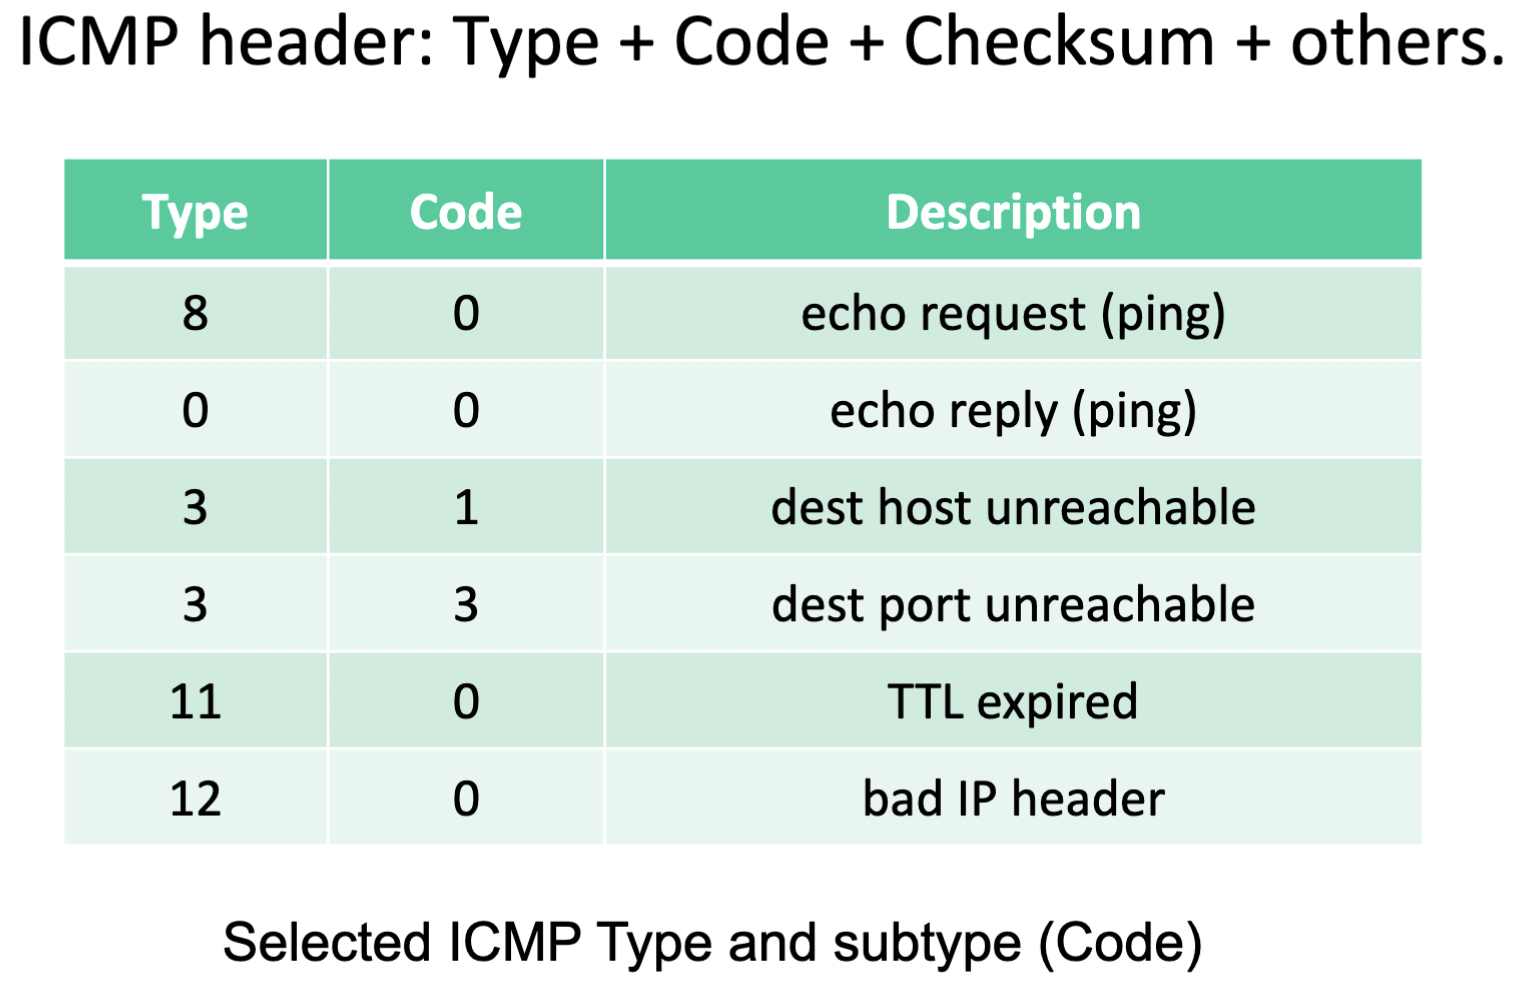
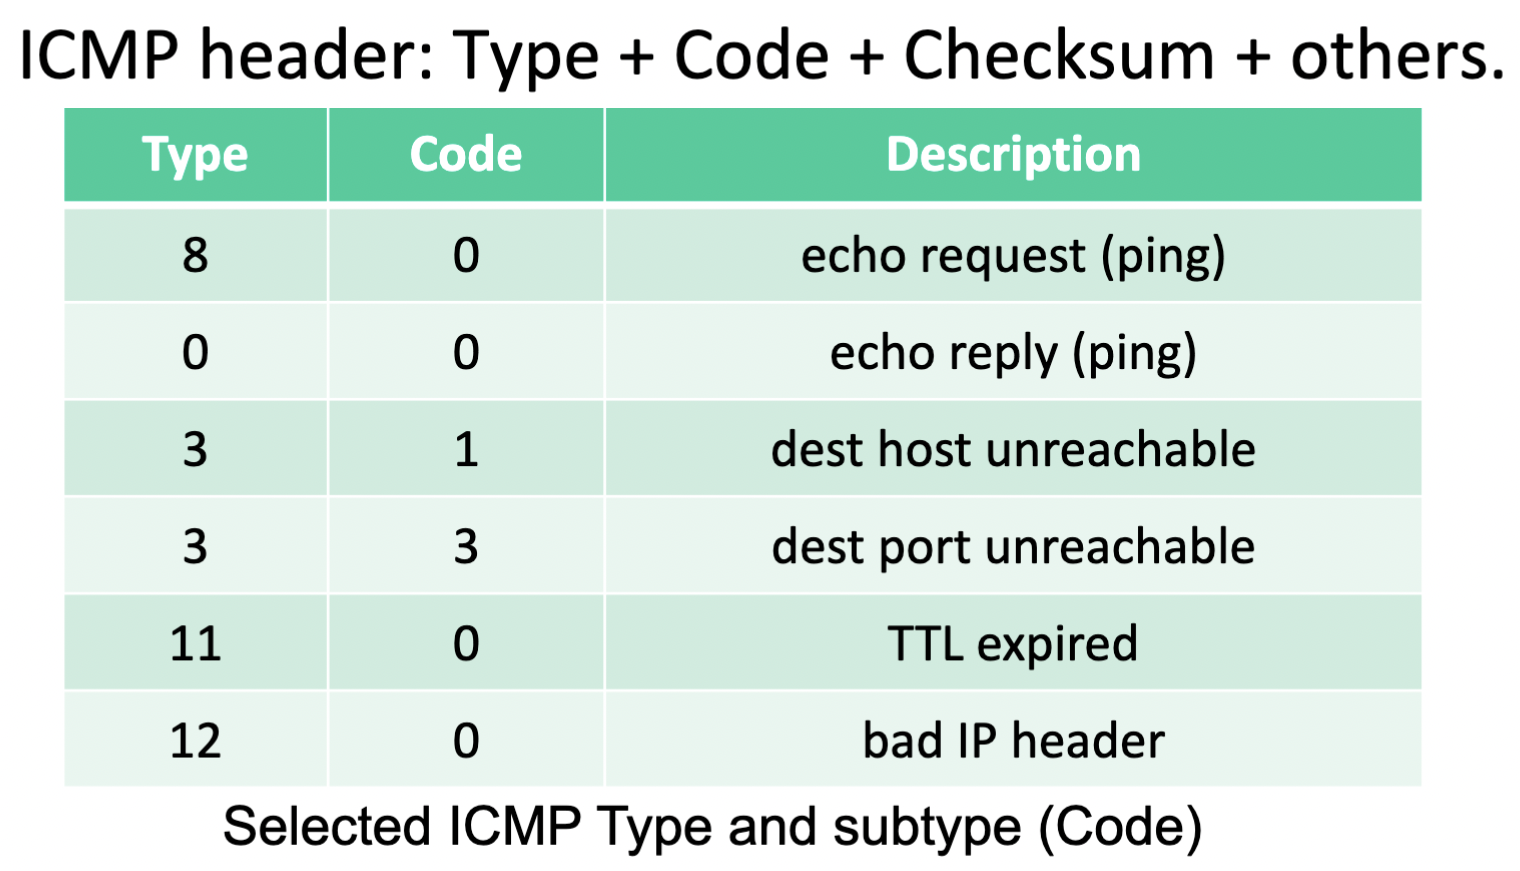
tighten phrasing and add detail

diff --git a/main.tex b/main.tex
@@ -804,13 +804,14 @@ in local network. Hosts inside local network are not explicitly addressable and 
 Used by hosts \& routers to share network-level
 info. E.g. error reporting: unreachable host / network / port / protocol and echo request/reply (used by \texttt{ping})
 
+\vspace{0.5em}
 \begin{compactfigure}
 \includegraphics[width=0.75\linewidth]{network/icmp-type.png}
 \end{compactfigure}
 
 \section*{Layer 4 - Link Layer}
 \sectionrule
-Transfers IP datagrams between adjacent nodes (hosts or routers) over one link, encapsulated in link-layer frames.
+Transfer IP datagrams b/w adjacent nodes (hosts or routers) over one link, encapsulated in link-layer frames.
 
 \textbf{Communication channel: } transmission medium of the data signals. E.g. copper wire, optical fiber, satellite. \\
 \textbf{Nodes: } Devices exchanging data. e.g. hosts, routers
@@ -818,12 +819,12 @@ Transfers IP datagrams between adjacent nodes (hosts or routers) over one link, 
 \textbf{Frame: } Layer-2 packet
 \textbf{NIC (Network Interface Card)} takes datagram and encapsulates it into a frame. Fills the header frame and transfers into physical link.
 
-Link Layer Services.
+\subsection{Link Layer Services}
 \begin{enumerate}
-\item \textbf{Framing: } encapsulate data into a frame, add header and trailer
-\item \textbf{Link Access Control: } When multiple nodes share a single link, coordinate which nodes can send frames at each point of time
+\item \textbf{Framing:} wrap data in a frame, add header \& trailer
+\item \textbf{Link Access Control:} When multiple nodes share a link, coordinate who can send frames at any time
 \item \textbf{Error detection and correction}
-\item \textbf{Reliable delivery: } often used on error-prone delivery like wireless link.
+\item \textbf{Reliable delivery:} for error-prone delivery mediums e.g. wireless link
 \end{enumerate}
 
 \subsection{Multiple Access Links and Protocols}
@@ -855,9 +856,9 @@ Protocols dictate how to detect and recover from collisions. Efficient with ligh
 \textbf{Slotted ALOHA}
 When node has data to send transmit at full channel data rate $R$, and no a priori coordination among nodes. Data sent in frames of size $L$ bits.
 \begin{itemize}
-\item Time divided into synchronized slots of duration \(L/R\).
+\item Time divided into sync-ed slots of duration \(L/R\).
 \item Nodes transmit at the start of the next slot when they have a frame.
-\item After a collision, retransmit in each subsequent slot with probability \(p\).
+\textbf{After a collision}, retransmit in each subsequent slot with probability \(p\).
 \end{itemize}
 \textit{Maximum efficiency: } $\tfrac{1}{e}$
 \begin{compactfigure}
@@ -878,16 +879,16 @@ No time slots, no synchronisation. When fresh frame:
 \includegraphics[width=0.75\linewidth]{link/unslotted-aloha.png}
 \end{compactfigure}
 
-\textbf{Limitations of both ALOHAs: } node’s decision to transmit is independent of the activity of other nodes in broadcast channel, and node pays no attention to whether another node is transmitting
+\textbf{Limitations of both ALOHAs: } nodes transmit w/o checking if other nodes in the channel are transmitting
 
 \textbf{Carrier Sense Multiple Access}
 Listen before transmit. If channel idle, transmit, else defer transmission.
 Possible collision from propagation delay - node cannot instantly detect if another node started transmitting.
 
 \textbf{Carrier Sense Multiple Access/Collision Detection}
-Same as above, but if collision detected, abort transmission and retransmit after random delay (backoff algorithm)
+If collision detected, abort transmission and retransmit after random delay (backoff algorithm)
 
-Backoff Algorithm: after each collision, randomly select waiting time \(K\) before retransmitting. Range of possible values for \(K\) doubles after every collision, causing the retransmission probability to decrease as \(p = 1/2^m\). This binary exponential backoff adapts to network load: more collisions $\rightarrow$ heavier traffic, longer back-off interval.
+\textbf{Backoff Algorithm:} after \(m\)th collision, randomly select waiting time \(K\) before retransmitting, from set $\{0,1,...,2^m-1\}$ which doubles after every collision $\rightarrow$ retransmission probability \(p = 1/2^m\) decreases. This binary exponential backoff adapts to network load: more collisions $\rightarrow$ heavier traffic, longer back-off interval.
 
 \begin{compactfigure}
 \includegraphics[width=0.75\linewidth]{link/csma.png}
